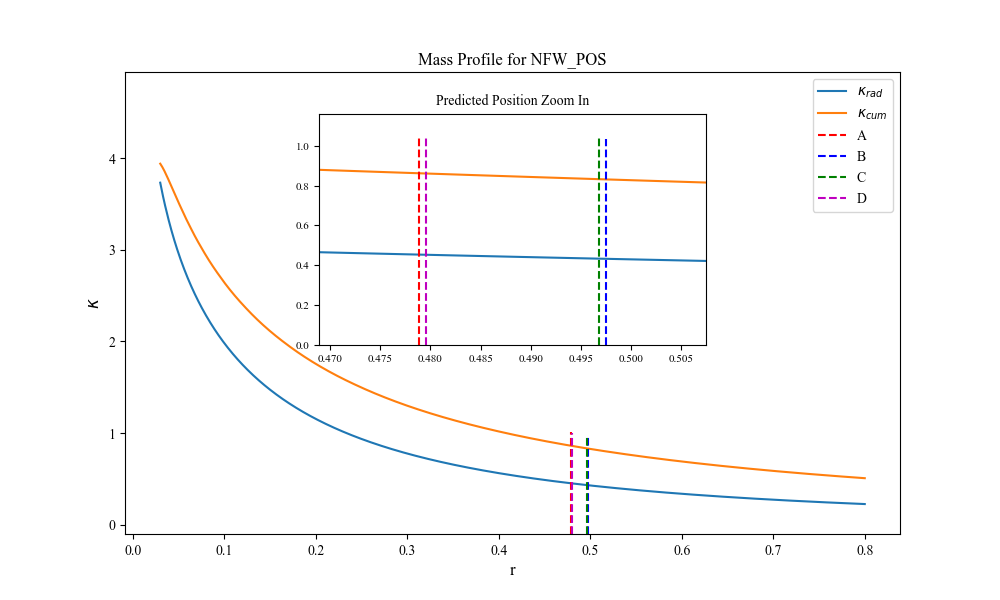
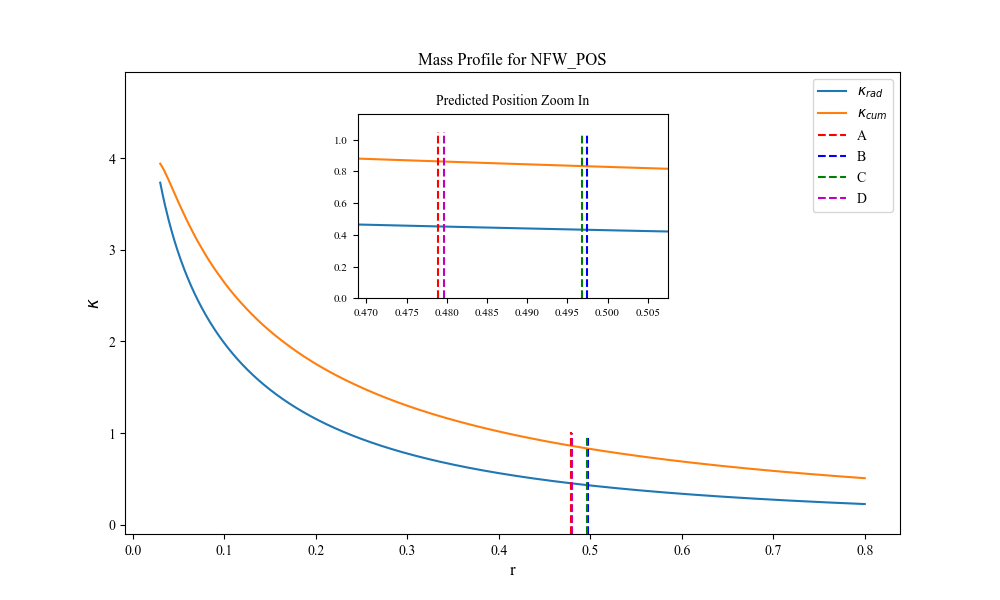
fixed nfw plot

diff --git a/kappa_glafic.py b/kappa_glafic.py
@@ -1,7 +1,7 @@
 #!/usr/bin/env python
 import glafic
 
-glafic.init(0.3, 0.7, -1.0, 0.7, 'SIE/SIE_POS', 20.0, 20.0, 21.56, 21.56, 0.01, 0.01, 1, verb = 0)
+glafic.init(0.3, 0.7, -1.0, 0.7, 'NFW/NFW_POS', 20.0, 20.0, 21.56, 21.56, 0.01, 0.01, 1, verb = 0)
 
 glafic.set_secondary('chi2_splane 0', verb = 0)
 glafic.set_secondary('chi2_checknimg 0', verb = 0)
@@ -11,8 +11,8 @@ glafic.set_secondary('hvary          0', verb = 0)
 glafic.set_secondary('ran_seed -122000', verb = 0)
 
 glafic.startup_setnum(1, 0, 1)
-glafic.set_lens(1, 'sie', 0.2613, 1.580350e+02, 2.080960e+01, 2.075891e+01, 1.287589e-01, -4.437098e+00, 0.000000e+00, 0.000000e+00)
-glafic.set_point(1, 1.000, 1.0000, 2.081270e+01)
+glafic.set_lens(1, 'anfw', 0.2613, 2.085312e+11, 2.080884e+01, 2.075341e+01, 1.500761e-01, -4.431327e+00, 8.699047e+01, 0.000000e+00)
+glafic.set_point(1, 1.000, 1.0000, 2.081271e+01)
 
 glafic.setopt_lens(1, 0, 0, 0, 0, 0, 0, 0, 0)
 glafic.setopt_point(1, 0, 0, 0)
@@ -21,7 +21,7 @@ glafic.setopt_point(1, 0, 0, 0)
 glafic.model_init(verb = 0)
 
 glafic.readobs_point('/Users/ainsleylewis/Documents/Astronomy/IllustrisTNG Lens Modelling/obs_point/obs_point_(POS).dat')
-glafic.kapparad(1.0000, 2.081270e+01, 2.078004e+01, 0.03, 0.8, 1000, 1)
-glafic.kappacum(1.0000, 2.081270e+01, 2.078004e+01, 0.03, 0.8, 1000, 1)
+glafic.kapparad(1.0000, 2.081271e+01, 2.077975e+01, 0.03, 0.8, 1000, 1)
+glafic.kappacum(1.0000, 2.081271e+01, 2.077975e+01, 0.03, 0.8, 1000, 1)
 
 glafic.quit()
